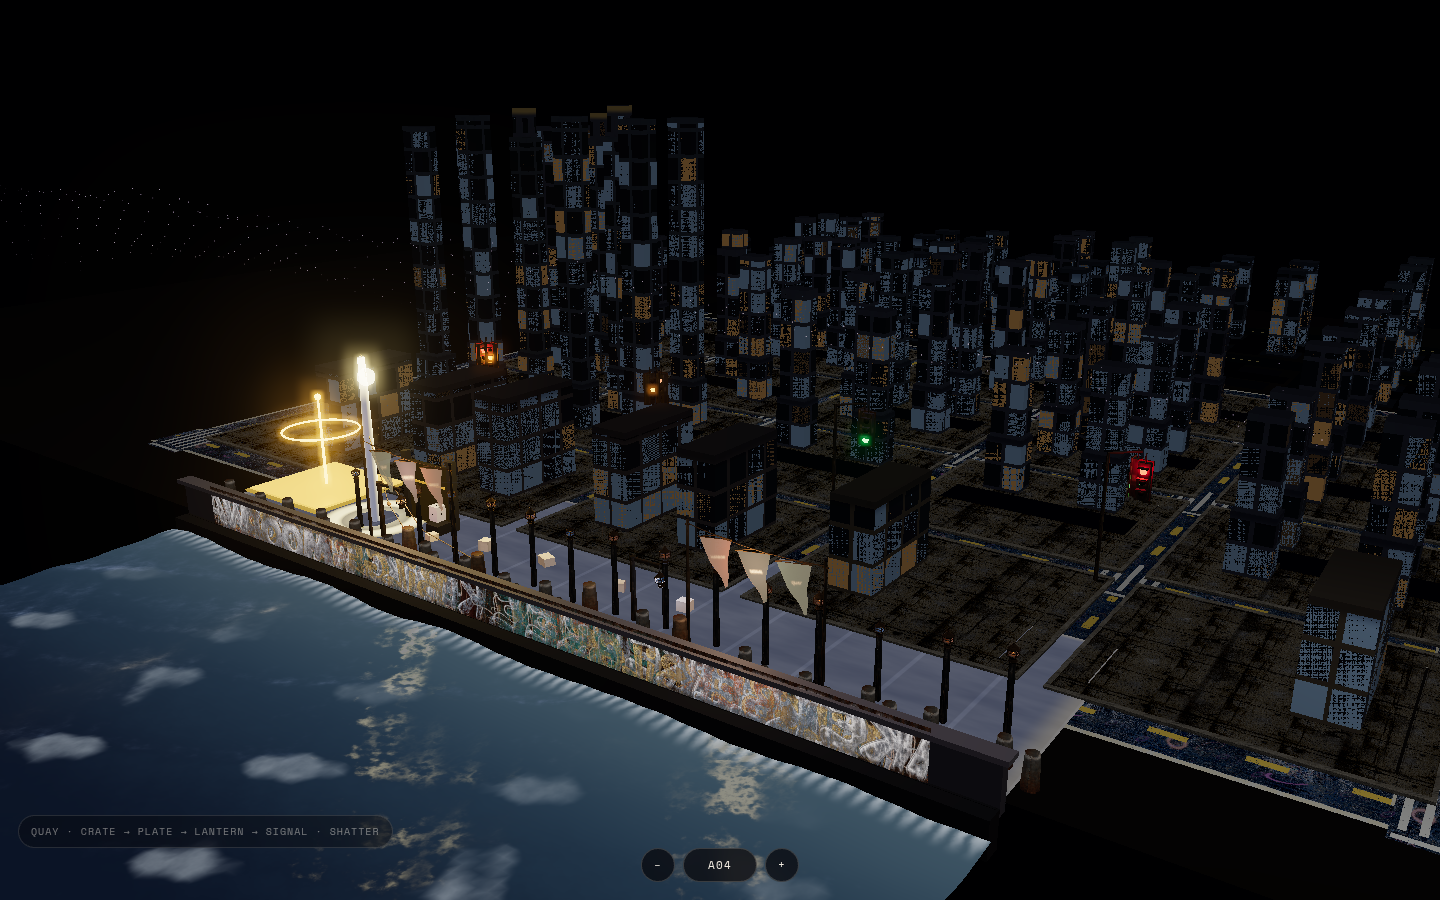
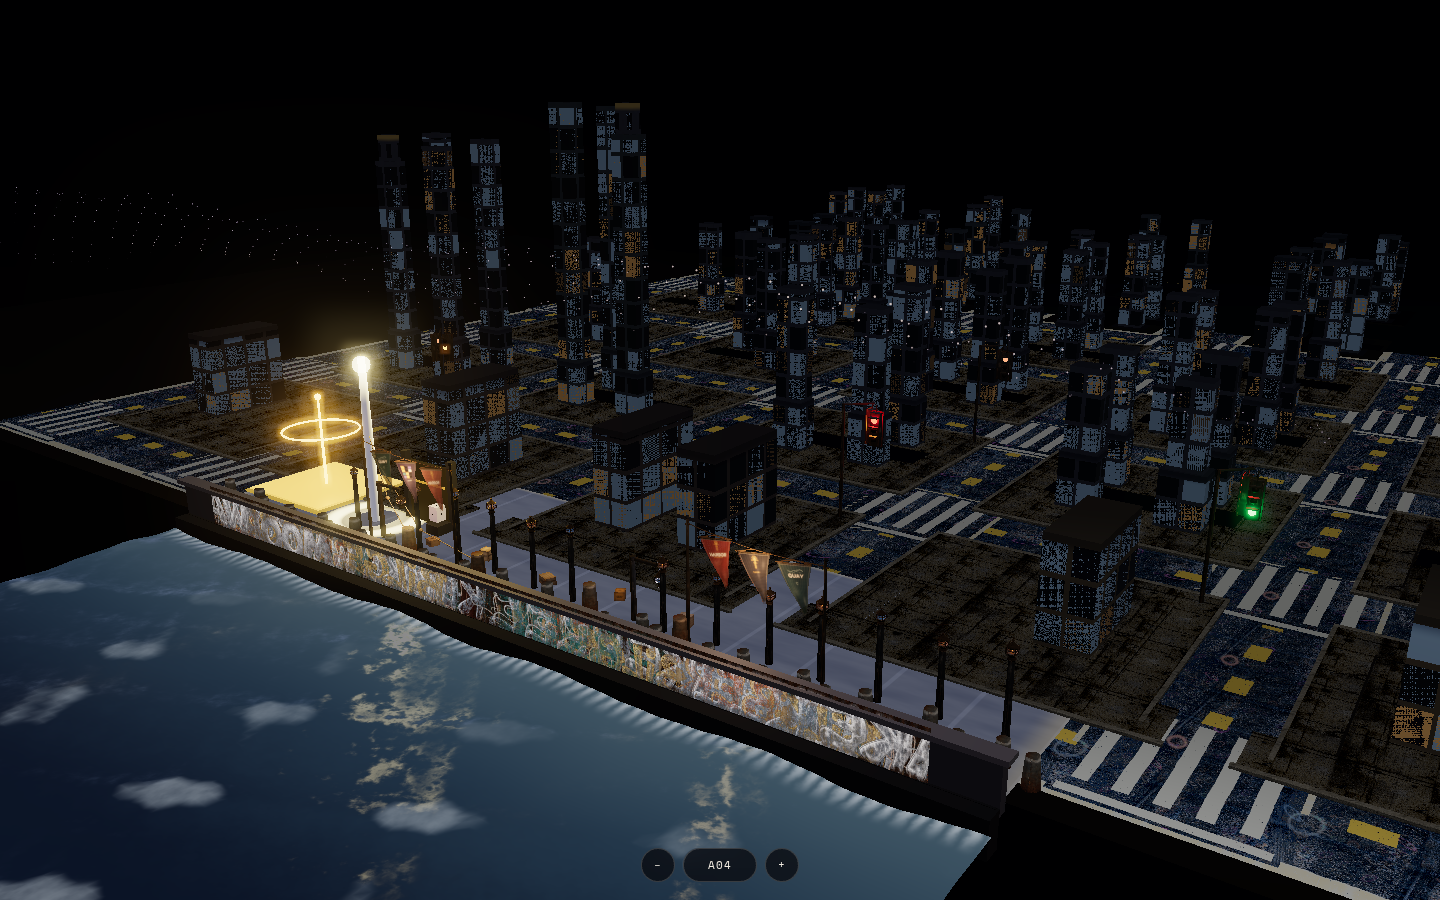
Harbor: widen primary streets and the quay-edge walk
The visible carriageway was 0.65, narrower than the 1.16 alley. STREET_W 3.70 and SIDEWALK_W 0.78 open it to about 2.14, and the quay row's water-side walk is 1.25. Alleys stay 1.16. The massing mask uses the same street module. Atlas sheets are unchanged.

diff --git a/harbor.html b/harbor.html
@@ -624,8 +624,13 @@ float fbm(vec2 p){
 // ——— Urban grammar: streets → blocks → lots → buildings (pass 3 + irregular lots p4) ———
 // Hierarchy refs: CityEngine / StreetGen / Purdue procedural; Three.js CityGenerator + SidewalkGenerator;
 // arXiv:1801.05741; mysimulator procedural buildings. Negative space = asphalt corridors.
-const STREET_W = 1.65;
-const SIDEWALK_W = 0.50;
+// Main-street module. Sidewalks sit inside the street gap, so the lane you
+// see is STREET_W − 2×SIDEWALK_W (was 1.65 − 1.00 = 0.65, narrower than an alley).
+// Carriageway is now ~2.14; the quay-edge walk (north face of the first row) is wider still.
+// Atlas sheets are unchanged — these constants only scale the meshes.
+const STREET_W = 3.70;
+const SIDEWALK_W = 0.78;
+const QUAY_WALK_W = 1.25;
 const CURB_H = 0.09;
 const BLOCK_W = 5.0;   // lot area width (X) inside sidewalks
 const BLOCK_D = 4.4;   // lot area depth (Z)
@@ -942,7 +947,7 @@ for (let r = 0; r <= GRID_ROWS; r++) {
     if (roadN < ROAD_MAX) {
       dummyR.position.set(x, 0.028, z);
       dummyR.rotation.set(-Math.PI / 2, 0, Math.PI / 2);
-      dummyR.scale.set(2.15, STREET_W * 0.92, 1);
+      dummyR.scale.set(STREET_W * 0.92, STREET_W * 0.92, 1);
       dummyR.updateMatrix();
       roadKindAttr.setX(roadN, 1);
       roads.setMatrixAt(roadN++, dummyR.matrix);
@@ -961,14 +966,15 @@ for (let bz = 0; bz < GRID_ROWS; bz++) {
   for (let bx = 0; bx < GRID_COLS; bx++) {
     const b = blockRect(bx, bz);
     const sw = SIDEWALK_W;
+    const northWalk = bz === 0 ? QUAY_WALK_W : sw;
     // N (+Z, quay-ward), S (−Z), E (+X), W (−X) sidewalk strips outside lot rect
-    addSidewalk((b.x0 + b.x1) * 0.5, b.z1 + sw * 0.5, BLOCK_W + sw * 2, sw);
+    addSidewalk((b.x0 + b.x1) * 0.5, b.z1 + northWalk * 0.5, BLOCK_W + northWalk * 2, northWalk);
     addSidewalk((b.x0 + b.x1) * 0.5, b.z0 - sw * 0.5, BLOCK_W + sw * 2, sw);
     addSidewalk(b.x0 - sw * 0.5, (b.z0 + b.z1) * 0.5, sw, BLOCK_D);
     addSidewalk(b.x1 + sw * 0.5, (b.z0 + b.z1) * 0.5, sw, BLOCK_D);
     // granite curb drop at sidewalk outer edge (toward street)
     const cw = 0.08;
-    addCurb((b.x0 + b.x1) * 0.5, b.z1 + sw + cw * 0.5, BLOCK_W + sw * 2 + cw * 2, cw);
+    addCurb((b.x0 + b.x1) * 0.5, b.z1 + northWalk + cw * 0.5, BLOCK_W + northWalk * 2 + cw * 2, cw);
     addCurb((b.x0 + b.x1) * 0.5, b.z0 - sw - cw * 0.5, BLOCK_W + sw * 2 + cw * 2, cw);
     addCurb(b.x0 - sw - cw * 0.5, (b.z0 + b.z1) * 0.5, cw, BLOCK_D + sw * 2);
     addCurb(b.x1 + sw + cw * 0.5, (b.z0 + b.z1) * 0.5, cw, BLOCK_D + sw * 2);
@@ -8652,7 +8658,7 @@ function fillTourChecklist() {
     '• [x] Atlas path: skip edgeKill/edgeFade→wallCol (tan side-wall panes after cool127)',
     '• [x] Distance LOD impostor (lodFlat mix to flat back atlas 16–36u)',
     '• [x] Night-street gait: walk 0.50 / sprint 0.88 + head-bob',
-    '• [x] Street widths: SIDEWALK_W 0.50 · STREET_W 1.65',
+    '• [x] Street widths: carriageway ~2.14 · SIDEWALK_W 0.78 · QUAY_WALK_W 1.25 · STREET_W 3.70',
     '• [x] Collision chest = EYE_H*0.72 (was stale 1.15)',
     '• [x] Face-map default + V walk unchanged',
     '',

diff --git a/noctuary/district-massing.js b/noctuary/district-massing.js
@@ -161,7 +161,7 @@ function blockRect(bx, bz, g) {
 }
 
 function resolveGrammar(options) {
-  const streetW = options.streetW ?? 1.65;
+  const streetW = options.streetW ?? 3.70;
   const blockW = options.blockW ?? 5;
   const blockD = options.blockD ?? 4.4;
   const cols = options.cols ?? 5;
@@ -565,6 +565,8 @@ export function planDistrict(options = {}) {
     seedLabel: g.seedLabel || (preset ? preset.label : String(g.seed >>> 0)),
     maskGap: MASK_GAP,
     podiumH: PODIUM_H,
+    streetW: g.streetW,
+    alleyW: g.alleyW,
     cols: g.cols,
     rows: g.rows,
     originalRows: g.originalRows,

diff --git a/noctuary-drills/A04-generate.md b/noctuary-drills/A04-generate.md
@@ -8,14 +8,28 @@ Hand-placed Harbor blocks (`placeBuilding` over the 5×4 lot roll) do not scale.
 ## What was practiced
 
 - **Height field.** Value noise + fbm. A slow octave sets the district ridge; a faster octave roughens lot to lot. The field is shifted by a seed, so two seeds are two districts. Quay row stays low. A ridge through the middle blocks becomes Signal towers. Hinterland stays shorter.
-- **Corridor mask.** Streets use the same cell as Harbor (`BLOCK + STREET`). Every block cuts a north–south alley 1.16 wide. Every block inland of the quay also cuts a cross alley. Parcels sit behind a 0.52 inset, and each footprint must keep a 0.14 gap from every street and alley or it is shrunk until it does. Courts (low occupancy noise) stay empty. Dark alley ribbons are drawn with the massing pass, inside the block, so the cut reads even on the existing lot pads. A check recomputes the street bands and asserts an 8 cm clearance.
+- **Corridor mask.** Streets use the same cell as Harbor (`BLOCK + STREET`). The primary hard mask is the full street module, `STREET_W` 3.70. Alleys stay narrower: every block cuts a north–south alley 1.16 wide, and every block inland of the quay also cuts a cross alley. Parcels sit behind a 0.52 inset, and each footprint must keep a 0.14 gap from every street and alley or it is shrunk until it does. Courts (low occupancy noise) stay empty. Dark alley ribbons are drawn with the massing pass, inside the block, so the cut reads even on the existing lot pads. A check recomputes the street bands, asserts an 8 cm clearance, and asserts the primary mask and the visible carriageway are both clearly wider than an alley.
 - **Sliced mass.** A stack is a fixed 1.48 podium, then a shaft at 70% of that footprint. A crown is allowed only on the tallest lot of a Signal ridge block (not Quay, not the hinterland belt), one crown per block, and the crown is 72% of the shaft so it cannot spill past it. The hard mask runs again on every slice.
 
 The mass is one `InstancedMesh` (`harbor-district-mass`) with a night façade shader: concrete body, 0.76 m fenestra cells, dark mullions, cool glass, rare warm panes. Extension streets past the hand grid are plain night asphalt in this module. They do not bind `uStreetAtlas`.
 
+## Wider corridors
+
+Sidewalks sit inside the street gap, so the lane you see is `STREET_W − 2×SIDEWALK_W`. The old module was 1.65 with 0.50 sidewalks, which left a 0.65 carriageway — narrower than the 1.16 alley. Primary streets now read as main streets. Alleys stay the narrow cut.
+
+| Lane | Width |
+|---|---|
+| `STREET_W` (hard mask and asphalt module) | 3.70 |
+| `SIDEWALK_W` | 0.78 |
+| Carriageway (`STREET_W − 2×SIDEWALK_W`) | ~2.14 |
+| `QUAY_WALK_W` (north walk of the quay row only) | 1.25 |
+| Alley | 1.16 |
+
+The same constants space the hand-placed blocks, sidewalks, curbs, and crosswalks, and they are passed into the generator, so the mask and the asphalt agree. The quay-edge walk is the raised sidewalk on the water side of the first row. Atlas cell sampling is unchanged; only the mesh scale moved. At the default camera the first internal carriageway is about 15 px across before and about 47 px after; the quay walk is about 16 px before and about 40 px after.
+
 ## Toggle
 
-Default Harbor is unchanged. The generator does not allocate meshes until it is turned on. Turning it off disposes those geometries and materials, then shows the hand-placed mesh again. The two cities are never both visible.
+The generator does not allocate meshes until it is turned on. Turning it off disposes those geometries and materials, then shows the hand-placed mesh again. The two cities are never both visible. The wider streets stay in both modes, because they are the street module, not a massing-only overlay.
 
 | Control | Effect |
 |---|---|
@@ -35,16 +49,20 @@ node noctuary/district-massing.check.mjs
 
 ## Harbor view
 
-Seed `A04`, massing on. Alleys and streets stay open; the seed bar is the only added chrome:
+Same camera. Left is the previous 0.65 carriageway; right is the 2.14 carriageway with the 1.25 quay-edge walk. Alleys stay the narrow cut inside the blocks.
 
-![Harbor seed A04 with open corridors](a04-harbor-massing-seed-a04.png)
+![Harbor streets before and after the wider module](a04-harbor-streets-before-after.png)
 
-Same camera, seed `signal`. The skyline and courts change; the corridors do not:
+Seed `A04`, massing on. Primary streets stay open and wider than the alleys; the seed bar is the only added chrome:
+
+![Harbor seed A04 with wider corridors](a04-harbor-massing-seed-a04.png)
+
+Same camera, seed `signal`. The skyline and courts change; the corridor widths do not:
 
 ![Harbor seed signal](a04-harbor-massing-seed-signal.png)
 
 ## Left alone
 
 - `quay-crate` / `quay-iron` atlas wiring and `streetPack` / prop-wear hunks
-- Street-ground atlas uniforms on the existing asphalt, sidewalk, and curb meshes
+- Street-ground atlas uniforms and cell sampling on the existing asphalt, sidewalk, and curb meshes (mesh scale changed; the sheets did not)
 - Physics and collision for props that already have it
